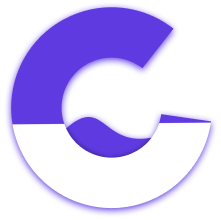
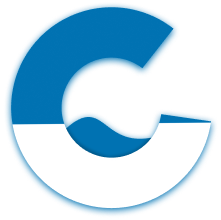
BlueTheme
replace indigo to blue
simple icons

Changed region(s): [[0.0271, 0.0273, 0.9774, 0.9818], [0.6787, 0.5182, 0.9502, 0.6273]]

diff --git a/client/src/icons/FlaskIcon.jsx b/client/src/icons/FlaskIcon.jsx
@@ -1,96 +1,22 @@
 const FlaskIcon = () => {
   return (
-<svg version="1.0" xmlns="http://www.w3.org/2000/svg"
- width="40px" height="40px" viewBox="0 0 512.000000 512.000000"
- preserveAspectRatio="xMidYMid meet">
-
-<g transform="translate(0.000000,512.000000) scale(0.100000,-0.100000)"
-fill="#ffffff" stroke="none">
-<path d="M311 5104 c-206 -55 -337 -254 -303 -460 56 -335 469 -465 701 -219
-119 126 147 301 73 458 -82 176 -285 271 -471 221z m204 -173 c89 -40 152
--149 142 -245 -21 -208 -255 -297 -410 -157 -53 47 -77 101 -77 174 0 100 46
-178 132 221 64 32 152 35 213 7z"/>
-<path d="M1813 5104 c-50 -18 -112 -75 -138 -129 -18 -36 -20 -65 -23 -277
-l-3 -236 -157 -4 c-139 -3 -162 -6 -198 -25 -52 -28 -111 -95 -124 -142 -5
--20 -10 -138 -10 -263 l0 -228 80 0 80 0 0 210 c0 220 7 259 45 274 9 3 77 6
-151 6 l134 0 0 -245 0 -245 85 0 85 0 0 245 0 245 410 0 410 0 0 -905 0 -905
-85 0 85 0 0 905 0 905 134 0 c74 0 142 -3 151 -6 45 -18 45 -10 45 -934 l0
--870 80 0 80 0 0 893 c0 876 -1 893 -21 937 -25 56 -62 95 -114 123 -35 19
--60 22 -197 25 l-158 4 0 53 c0 38 6 60 21 79 l20 26 533 0 533 0 21 -23 c21
--22 22 -31 22 -245 l0 -222 86 0 85 0 -3 238 c-3 266 -7 282 -81 353 -72 70
--68 70 -678 67 -603 -3 -577 0 -648 -70 -50 -49 -72 -102 -78 -184 l-6 -74
--408 0 -409 0 0 223 c0 221 0 224 23 245 l23 22 1438 0 1437 0 24 -25 25 -24
-0 -386 0 -385 80 0 80 0 0 400 c0 442 0 442 -63 509 -18 18 -54 44 -82 57
-l-50 24 -1450 -1 c-1256 0 -1456 -3 -1492 -15z"/>
-<path d="M680 4121 c-72 -22 -139 -81 -166 -147 -22 -52 -18 -141 10 -199 72
--156 276 -186 399 -60 96 99 83 276 -28 361 -59 45 -152 64 -215 45z m120
--186 c32 -34 30 -83 -5 -112 -68 -59 -162 15 -121 95 18 34 28 40 72 41 20 1
-38 -7 54 -24z"/>
-<path d="M3825 3935 c-25 -24 -25 -25 -25 -220 0 -195 0 -196 25 -220 20 -21
-34 -25 79 -25 l56 0 2 -1532 3 -1533 27 -69 c65 -167 187 -277 355 -321 234
--61 484 75 581 318 16 39 17 162 22 1587 l5 1545 50 3 c61 3 89 16 104 49 7
-15 11 95 11 209 0 183 0 185 -25 209 l-24 25 -611 0 -611 0 -24 -25z m1125
--220 l0 -85 -492 2 -493 3 -3 83 -3 82 496 0 495 0 0 -85z m-160 -740 l0 -495
--330 0 -330 0 0 495 0 495 330 0 330 0 0 -495z m-2 -1612 l-3 -948 -26 -55
-c-34 -72 -89 -126 -167 -162 -56 -27 -70 -30 -145 -26 -62 2 -94 9 -131 28
--65 33 -124 93 -155 160 l-26 55 -3 948 -2 947 330 0 330 0 -2 -947z"/>
-<path d="M4292 1818 l3 -83 83 -3 82 -3 0 86 0 85 -85 0 -86 0 3 -82z"/>
-<path d="M4460 1485 l0 -85 80 0 80 0 0 85 0 85 -80 0 -80 0 0 -85z"/>
-<path d="M4292 1158 l3 -83 83 -3 82 -3 0 86 0 85 -85 0 -86 0 3 -82z"/>
-<path d="M4460 825 l0 -85 80 0 80 0 0 85 0 85 -80 0 -80 0 0 -85z"/>
-<path d="M4294 567 c-3 -8 -4 -45 -2 -83 l3 -69 83 -3 82 -3 0 86 0 85 -80 0
-c-58 0 -82 -4 -86 -13z"/>
-<path d="M1182 3607 c-19 -21 -22 -35 -24 -162 l-3 -140 -45 -3 c-111 -6 -120
--21 -120 -202 l0 -130 -80 0 -80 0 0 -80 0 -80 80 0 80 0 0 -197 0 -198 -476
--873 c-266 -488 -485 -900 -495 -934 -35 -112 -21 -286 32 -390 50 -99 165
--183 282 -208 36 -7 398 -10 1182 -8 1030 3 1134 4 1172 20 38 15 46 15 100 1
-94 -26 298 -23 397 5 238 68 421 220 527 437 64 132 83 211 83 355 0 200 -46
-338 -167 503 -64 88 -138 153 -242 213 l-85 49 3 280 2 280 83 3 82 3 0 79 0
-80 -495 0 -495 0 0 -80 0 -80 80 0 80 0 0 -285 0 -285 -47 -24 c-27 -14 -61
--34 -77 -45 l-30 -20 -253 465 -253 464 0 195 0 195 85 0 85 0 0 80 0 80 -85
-0 -85 0 0 140 c0 136 -1 142 -25 165 -20 21 -34 25 -80 25 l-55 0 0 124 c0
-128 -8 170 -38 192 -13 10 -83 13 -298 14 -279 0 -281 0 -302 -23z m468 -222
-l0 -85 -165 0 -165 0 0 85 0 85 165 0 165 0 0 -85z m168 -327 l-3 -83 -327 -3
--328 -2 0 85 0 85 330 0 331 0 -3 -82z m2 -469 l0 -221 150 -275 c83 -151 150
--276 150 -279 0 -2 -11 -4 -25 -4 -44 0 -92 -27 -159 -89 -99 -92 -133 -93
--230 -4 -82 75 -133 97 -221 97 -89 -1 -130 -18 -203 -87 -111 -106 -144 -105
--257 4 -50 48 -107 79 -145 79 -11 0 -20 5 -20 11 0 6 66 131 147 277 l147
-267 4 223 3 222 330 0 329 0 0 -221z m1320 -524 l0 -85 -165 0 -165 0 0 85 0
-85 165 0 165 0 0 -85z m0 -408 c0 -191 -6 -179 125 -243 116 -56 237 -177 293
--294 61 -128 62 -122 -7 -142 -47 -14 -74 -31 -130 -83 -66 -60 -74 -65 -117
--65 -42 0 -51 5 -110 59 -91 83 -121 96 -224 96 -101 0 -124 -11 -216 -96 -58
--54 -67 -59 -110 -59 -42 0 -51 5 -107 56 -61 56 -144 104 -181 104 -25 0 -17
-33 37 140 62 125 160 221 292 286 66 33 104 57 112 74 9 17 13 75 13 178 l0
-152 165 0 165 0 0 -163z m-2204 -68 c84 -78 129 -99 219 -99 90 0 138 22 222
-100 58 55 68 60 109 60 41 0 50 -5 110 -61 84 -78 129 -99 219 -99 90 0 138
-22 222 101 l65 60 56 -3 57 -3 72 -133 73 -132 -46 -63 c-61 -82 -109 -178
--136 -274 -33 -112 -33 -324 0 -436 42 -146 124 -280 232 -380 l61 -57 -1069
-2 -1069 3 -49 30 c-30 19 -60 49 -79 79 -29 48 -30 53 -30 170 l0 121 234 430
-c129 237 261 478 293 538 l59 107 55 0 c53 0 56 -2 120 -61z m1501 -839 c79
--72 138 -95 227 -88 77 7 116 26 188 94 99 94 137 94 241 -2 83 -76 140 -99
-231 -92 72 6 128 32 176 83 42 45 77 70 109 80 l24 7 -6 -75 c-23 -268 -233
--509 -498 -572 -98 -23 -241 -20 -335 8 -262 76 -440 287 -479 569 -3 27 -4
-52 0 58 10 17 55 -8 122 -70z"/>
-<path d="M1715 1296 c-164 -78 -194 -285 -58 -407 52 -47 100 -62 178 -57 126
-8 215 98 223 224 6 87 -16 141 -78 197 -79 71 -174 86 -265 43z m159 -165 c9
--10 19 -31 22 -49 5 -26 1 -36 -24 -62 -17 -16 -37 -30 -46 -30 -59 0 -103 58
--84 113 18 51 96 67 132 28z"/>
-<path d="M910 1155 l0 -85 80 0 80 0 0 85 0 85 -80 0 -80 0 0 -85z"/>
-<path d="M1156 975 c-99 -35 -161 -126 -161 -235 1 -77 25 -130 81 -180 51
--44 93 -60 161 -60 140 0 244 102 246 240 1 171 -167 292 -327 235z m144 -183
-c37 -47 15 -113 -44 -128 -28 -7 -81 18 -90 41 -18 48 7 103 54 117 27 8 60
--4 80 -30z"/>
-<path d="M533 819 c-55 -10 -91 -30 -129 -71 -97 -102 -96 -246 1 -343 155
--155 417 -45 417 175 0 66 -18 113 -61 163 -55 62 -143 92 -228 76z m101 -185
-c34 -34 34 -77 1 -109 -50 -51 -135 -18 -135 52 0 74 82 108 134 57z"/>
-<path d="M1730 580 l0 -80 -80 0 -80 0 0 -85 0 -85 80 0 80 0 0 85 0 85 85 0
-85 0 0 -85 0 -85 80 0 80 0 0 85 0 85 -80 0 -80 0 0 80 0 80 -85 0 -85 0 0
--80z"/>
-<path d="M263 3460 c-174 -36 -293 -220 -253 -391 57 -249 358 -343 542 -171
-208 195 91 539 -192 565 -30 3 -74 2 -97 -3z m152 -185 c94 -55 104 -197 19
--264 -40 -31 -97 -44 -143 -31 -78 21 -121 76 -121 156 0 130 133 205 245 139z"/>
-</g>
-</svg>
+<svg width="40px" height="40px" viewBox="0 0 24 24" version="1.1" xmlns="http://www.w3.org/2000/svg">
+      <title>Sulfur Dioxide &amp; Sulphites</title>
+      <g
+        id="Sulfur-Dioxide-&amp;-Sulphites"
+        stroke="none"
+        strokeWidth="1"
+        fill="none"
+        fillRule="evenodd"
+        strokeLinecap="round"
+      >
+        <path
+          d="M11,10.0731368 L11,3 L14,3 L14,10 L19.0439766,17.926249 C19.6369929,18.8581318 19.3622874,20.0943067 18.4304047,20.687323 C18.1095028,20.8915333 17.7370217,21 17.3566537,21 L7.65644946,21 C6.55187996,21 5.65644946,20.1045695 5.65644946,19 C5.65644946,18.6175735 5.76609246,18.2431642 5.97238319,17.9211484 L11,10.0731368 Z M7.85,15 L17.2,15 L19.0556007,17.9298958 C19.6466029,18.8630572 19.3692281,20.0986359 18.4360667,20.6896382 C18.1159656,20.8923688 17.7448615,21 17.3659625,21 L7.65966337,21 C6.55509387,21 5.65966337,20.1045695 5.65966337,19 C5.65966337,18.6170702 5.76959488,18.2421898 5.9763955,17.9199031 L7.85,15 Z M10,3 L15,3"
+          id="Combined-Shape"
+          stroke="#fff"
+        ></path>
+      </g>
+    </svg>
   );
 };
 

diff --git a/client/src/icons/DropIcon.jsx b/client/src/icons/DropIcon.jsx
@@ -1,56 +1,18 @@
 const DropIcon = () => {
   return (
-<svg version="1.0" xmlns="http://www.w3.org/2000/svg"
- width="40px" height="40px" viewBox="0 0 512.000000 512.000000"
- preserveAspectRatio="xMidYMid meet">
-
-<g transform="translate(0.000000,512.000000) scale(0.100000,-0.100000)"
-fill="#ffffff" stroke="none">
-<path d="M2004 5109 c-26 -13 -259 -417 -280 -485 -45 -143 34 -317 174 -386
-68 -33 216 -33 284 0 136 67 213 228 178 371 -7 32 -61 136 -137 269 -68 119
--127 220 -131 224 -13 14 -67 18 -88 7z m124 -365 c46 -80 86 -161 89 -179 9
--53 -5 -102 -39 -141 -42 -47 -77 -64 -138 -64 -61 0 -96 17 -138 64 -34 39
--48 88 -39 141 5 30 165 324 177 324 3 0 42 -65 88 -145z"/>
-<path d="M3384 4759 c-22 -11 -354 -578 -380 -650 -8 -24 -18 -75 -21 -114
--14 -177 82 -342 246 -423 74 -36 77 -37 191 -37 114 0 117 1 191 37 164 81
-260 246 246 423 -3 39 -13 90 -21 114 -9 24 -94 178 -188 342 -188 325 -199
-339 -264 308z m151 -411 c158 -276 167 -294 172 -363 10 -121 -72 -251 -182
--288 -144 -49 -288 5 -360 134 -26 47 -30 64 -30 134 0 69 4 87 30 136 54 101
-250 438 255 438 3 0 55 -86 115 -191z"/>
-<path d="M2524 3979 c-26 -13 -214 -339 -214 -371 0 -33 39 -68 76 -68 38 0
-58 21 120 132 27 48 51 87 54 87 9 0 664 -1143 687 -1199 42 -103 56 -192 50
--319 -6 -128 -25 -200 -83 -311 -90 -173 -254 -306 -450 -367 -46 -14 -92 -18
--204 -18 -112 0 -158 4 -204 18 -244 75 -424 252 -506 497 -32 94 -39 270 -15
-376 24 111 42 146 240 489 96 167 175 314 175 328 0 47 -75 85 -117 59 -14 -9
--318 -532 -375 -644 -22 -43 -50 -122 -64 -175 -23 -87 -25 -114 -22 -240 l3
--143 -75 0 c-227 0 -551 -41 -682 -85 -168 -57 -242 -149 -217 -269 9 -41 21
--60 59 -98 55 -53 117 -76 273 -103 102 -18 150 -40 155 -72 8 -52 -112 -78
--508 -112 -362 -32 -495 -59 -593 -121 -106 -67 -115 -211 -17 -293 128 -108
-319 -135 1045 -147 513 -8 569 -13 615 -55 51 -46 11 -81 -122 -111 -137 -30
--206 -57 -256 -99 -52 -46 -76 -106 -70 -180 6 -74 44 -126 128 -177 421 -253
-1933 -248 2317 7 74 49 106 102 111 179 3 49 -1 70 -20 106 -43 83 -123 124
--342 174 -100 23 -132 60 -86 101 46 42 105 48 537 54 408 6 413 6 434 28 28
-27 29 75 3 104 -18 20 -23 20 -439 16 -430 -4 -457 -6 -561 -48 -160 -64 -194
--237 -65 -336 41 -32 102 -54 258 -94 50 -13 92 -30 108 -45 123 -114 -224
--237 -779 -273 -591 -40 -1264 42 -1422 172 -70 58 -33 112 99 146 214 55 280
-88 318 161 21 39 25 104 8 147 -25 68 -109 124 -229 154 -27 7 -236 14 -535
-19 -567 10 -731 22 -870 67 -58 18 -105 49 -105 67 0 20 32 44 80 61 68 24
-199 42 504 70 309 28 431 50 509 92 84 46 122 124 98 204 -28 92 -119 147
--312 185 -124 25 -161 39 -177 71 -49 93 223 163 692 180 l182 6 21 -51 c48
--115 158 -256 263 -337 162 -125 341 -185 550 -185 216 0 397 63 562 196 107
-86 209 220 254 333 l17 44 182 -6 c309 -11 533 -44 635 -95 51 -25 55 -30 55
--61 0 -51 -30 -67 -179 -96 -203 -39 -280 -88 -306 -194 -21 -89 16 -154 118
--205 61 -31 206 -55 488 -81 304 -28 434 -46 505 -70 54 -18 84 -47 75 -70 -9
--26 -107 -64 -212 -84 -106 -20 -124 -33 -124 -86 0 -21 9 -40 25 -55 l26 -24
-98 16 c176 30 276 83 319 168 43 86 17 178 -65 230 -98 62 -230 89 -588 120
--225 20 -414 43 -460 56 -32 10 -55 35 -55 60 0 33 39 50 151 68 156 25 223
-50 279 104 75 73 85 158 30 246 -72 117 -329 184 -779 202 l-166 7 3 133 c5
-147 -9 237 -55 354 -14 36 -195 358 -401 717 -406 704 -400 695 -468 662z"/>
-<path d="M2932 2038 c-88 -119 -193 -182 -326 -197 -92 -11 -116 -27 -116 -82
-0 -51 27 -69 100 -69 126 0 265 58 367 153 110 103 144 173 107 225 -11 16
--25 22 -54 22 -36 0 -43 -5 -78 -52z"/>
-</g>
-</svg>
+    <svg width="40px" height="40px" viewBox="0 0 48 48" fill="none" xmlns="http://www.w3.org/2000/svg">
+    <g id="drop">
+      <g id="drop_2">
+        <path
+          id="Combined Shape"
+          fillRule="evenodd"
+          clipRule="evenodd"
+          d="M38.0008 28.0031C38.0008 24.9221 35.6293 20.3795 31.597 15.0759C29.08 11.7654 26.238 8.56841 23.9831 6.26356C21.7452 8.55455 18.8983 11.7648 16.3881 15.0749C12.3663 20.3782 10.0008 24.9213 10.0008 28.0031C10.0008 31.4872 11.2755 34.7693 13.545 37.3135C13.9127 37.7256 13.8766 38.3577 13.4645 38.7254C13.0524 39.093 12.4202 39.057 12.0526 38.6448C9.45902 35.7375 8.00079 31.9827 8.00079 28.0031C8.00079 24.3399 10.5179 19.5057 14.7945 13.8664C17.5313 10.2576 20.6462 6.77936 23.0017 4.41004C23.5482 3.86352 24.4174 3.86352 24.9656 4.41178C27.3412 6.79897 30.4471 10.259 33.1891 13.8654C37.4772 19.5054 40.0008 24.3394 40.0008 28.0031C40.0008 36.8394 32.8371 44.0032 24.0008 44.0032C20.9637 44.0032 18.0493 43.1555 15.5341 41.5807C15.066 41.2877 14.9241 40.6706 15.2172 40.2025C15.5103 39.7344 16.1273 39.5925 16.5955 39.8856C18.7944 41.2623 21.3415 42.0032 24.0008 42.0032C31.7325 42.0032 38.0008 35.7349 38.0008 28.0031ZM14 28.3776C14 33.8993 18.4783 38.3775 24 38.3775C24.5523 38.3775 25 38.8253 25 39.3775C25 39.9298 24.5523 40.3775 24 40.3775C17.3737 40.3775 12 35.0038 12 28.3776C12 27.8253 12.4477 27.3776 13 27.3776C13.5523 27.3776 14 27.8253 14 28.3776Z"
+          fill="#fff"
+        />
+      </g>
+    </g>
+  </svg>
   );
 };
 

diff --git a/client/src/pages/Dashboard.jsx b/client/src/pages/Dashboard.jsx
@@ -7,11 +7,11 @@ function Dashboard() {
     <div className="w-full  p-2   ">
       {/* Cards */}
       <div className="grid grid-cols-1 md:grid-cols-2 lg:grid-cols-5 justify-between gap-2 ">
-        <DashboardCard bg="bg-cyan-500" title="Total Chemicals" icon={<FlaskIcon />} />
+        <DashboardCard bg="bg-sky-500" title="Total Chemicals" icon={<FlaskIcon />} />
         <DashboardCard bg="bg-slate-500" title="Chemicals Running Low" query="low-amount" icon={<DropIcon />} />
         <DashboardCard bg="bg-slate-700" title="Out of Stock" query="out-of-stock" icon={<OutOfStockIcon />} />
-        <DashboardCard bg="bg-neutral-500" title="Chemicals Near Expiry" query="near-expired" icon={<ExpiredIcon />} />
-        <DashboardCard bg="bg-pink-700" title="Expired Chemicals" query="expired" icon={<ExpiredChemical />} />
+        <DashboardCard bg="bg-sky-800" title="Chemicals Near Expiry" query="near-expired" icon={<ExpiredIcon />} />
+        <DashboardCard bg="bg-neutral-500" title="Expired Chemicals" query="expired" icon={<ExpiredChemical />} />
       </div>
 
       {/* Charts */}
@@ -19,15 +19,15 @@ function Dashboard() {
         <div className="md:h-[350px] p-3 col-span-2  border  shadow-md rounded-md ">
           <ConsumptionAreaChart />
         </div>
-        <div className="md:h-[350px] min-h-auto   col-span-1   p-3 border  shadow-md   rounded-md ">
+        <div className="md:h-[350px] min-h-auto col-span-1  p-3 border shadow-md  rounded-md ">
           <HazardsPieChart />
         </div>
       </div>
-      <div className="grid grid-cols-2 md:grid-cols-3  gap-2  mt-2  ">
+      <div className="grid grid-cols-2 md:grid-cols-3  gap-2  mt-2">
         <div className=" h-[350px] p-3 col-span-2  border  shadow-md rounded-md">
           <SupplyBarChart />
         </div>
-        <div className="md:h-[350px] min-h-auto col-span-1 flex p-3    border  shadow-md rounded-md">
+        <div className="md:h-[350px] min-h-auto col-span-1 flex p-3 border shadow-md rounded-md">
           <LocationRadarChart />
         </div>
       </div>

diff --git a/client/src/pages/Home.jsx b/client/src/pages/Home.jsx
@@ -29,10 +29,10 @@ const Home = () => {
     <div className="w-full grid grid-cols-1 md:grid-cols-2 items-center min-h-screen" style={HeroBackground}>
       <div className="p-8 grid grid-cols-1 justify-center items-center">
         <h1 className='text-2xl font-semibold tracking-wider text-center md:text-left'>
-          Revolutionize your chemical inventory management with <span className='text-indigo1'>ChemStack!</span>
+          Revolutionize your chemical inventory management with <span className='text-blue1'>ChemStack!</span>
         </h1>
         <p className='mt-4'> Streamline your chemical inventory management process with ease. 
-          Bringing <span className='text-indigo0 font-semibold'>efficiency</span> and <span className='font-semibold text-indigo0'> quality assurance</span> to laboratory management </p>
+          Bringing <span className='text-blue0 font-semibold'>efficiency</span> and <span className='font-semibold text-blue0'> quality assurance</span> to laboratory management </p>
         <div className="grid grid-cols-1 md:grid-cols-2 gap-2 mt-8 max-w-[70%] mx-auto md:mx-0">
           <Button onClick={handleGetStarted} type="button" variant="primary">
             Get Started

diff --git a/client/src/pages/SignIn.jsx b/client/src/pages/SignIn.jsx
@@ -13,7 +13,7 @@ function SignIn() {
   return (
     <div className="p-3 max-w-lg min-h-screen mx-auto mt-20">
       <ToastProvider toastType={toastType} toastMessage={toastMessage} clearToast={clearToast}/>
-      <h1 className="text-3xl text-center font-bold my-7">Sign In to <span className='text-indigo0'>ChemStack</span></h1>
+      <h1 className="text-3xl text-center font-bold my-7">Sign In to <span className='text-blue0'>ChemStack</span></h1>
       <form onSubmit={handleSubmit} className="grid grid-cols-1 place-items-center gap-4">
         <Input id="email" type="email" placeholder="Enter your email" onChange={handleChange} />
         <Input id="password" type="password" placeholder="Enter password" onChange={handleChange} />

diff --git a/client/src/components/Input.jsx b/client/src/components/Input.jsx
@@ -14,7 +14,7 @@ function Input({ type, label, value, placeholder, id, onChange, defaultValue, va
         defaultValue={defaultValue}
         onChange={onChange}
         className="rounded-lg indent-2 bg-transparent border-gray1 h-10 text-base 
-        mb-1 min-w-fit w-[279px] focus:outline-none focus:ring-0 focus:border-indigo0 border border-solid"
+        mb-1 min-w-fit w-[279px] focus:outline-none focus:ring-0 focus:border-blue0 border border-solid"
       />
       <p className="text-xs text-gray1 w-fit">{validation}</p>
     </div>

diff --git a/client/src/components/TextArea.jsx b/client/src/components/TextArea.jsx
@@ -9,8 +9,8 @@ const TextArea = ({id,label,value,onChange,validation}) => {
         value={value}
         onChange={onChange}
        className="min-w-fit min-h-20 resize-y rounded-lg indent-2 
-       mb-1 focus:outline-none focus:ring-0 focus:border-indigo0 
-       border border-solid  caret-indigo0 p-1"
+       mb-1 focus:outline-none focus:ring-0 focus:border-blue0 
+       border border-solid  caret-blue0 p-1"
       />
       <p className="text-xs text-gray1 w-fit">{validation}</p>
     </div>

diff --git a/client/src/components/Button.jsx b/client/src/components/Button.jsx
@@ -2,7 +2,7 @@ function Button({ loading, children, type, variant, onClick, isFull }) {
   const getClassVariant = (variant) => {
     switch (variant) {
       case 'primary':
-        return 'text-white px-3 py-2 bg-indigo0 hover:bg-indigo1';
+        return 'text-white px-3 py-2 bg-blue1 hover:bg-blue0';
       case 'secondary':
         return 'text-gray2 px-3 py-2 hover:bg-slate-100 border  border-gray1 bg-transparent';
       default:

diff --git a/client/src/components/BigSpinner.jsx b/client/src/components/BigSpinner.jsx
@@ -2,7 +2,7 @@ const BigSpinner = () => {
   return (
     <div className="grid grid-cols-1">
       <svg
-        className="animate-spin size-24 mr-2 border-gray0 border-t-indigo0 border-4 rounded-full"
+        className="animate-spin size-24 mr-2 border-gray0 border-t-blue0 border-4 rounded-full"
         viewBox="0 0 24 24"
       />
     </div>

diff --git a/client/src/ui/UpdateTask.jsx b/client/src/ui/UpdateTask.jsx
@@ -50,7 +50,7 @@ const UpdateTask = ({ taskitem,  handleDrawerClose }) => {
   const taskInfoSecondRow = (
     <>
       {loading ? (
-        <div className="h-14 w-full bg-indigo1 animate-pulse" />
+        <div className="h-14 w-full bg-blue1 animate-pulse" />
       ) : error ? (
         <p>Error fetching members</p>
       ) : (

diff --git a/client/tailwind.config.js b/client/tailwind.config.js
@@ -26,8 +26,8 @@ export default {
         gray0: '#E2E8F0',
         gray1: '#94A3B8',
         gray2: '#64748B',
-        indigo0: '#4F46E5',
-        indigo1: '#4338CA',
+        blue0: '#4DA0D6',
+        blue1: '#0072b2',
         success: '#10B981',
         danger: '#F43F5E',
         column1: '#64748B',

diff --git a/client/src/components/DashboardCard.jsx b/client/src/components/DashboardCard.jsx
@@ -17,7 +17,7 @@ const DashboardCard = ({ query, title, icon, bg }) => {
   };
 
   if (loading) {
-    return <div className="w-full min-h-24 bg-indigo1/50 animate-pulse " />;
+    return <div className="w-full min-h-24 bg-blue1/50 animate-pulse " />;
   }
 
   if (error) {
